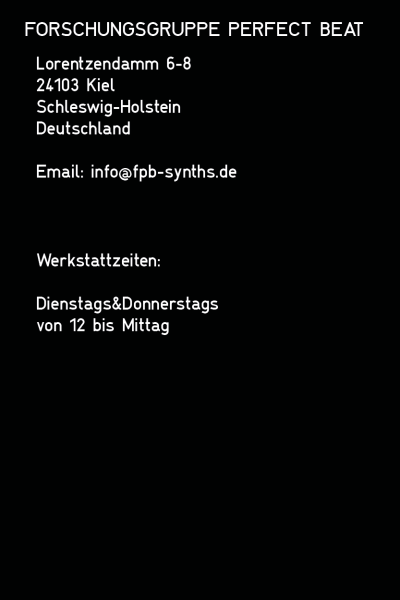
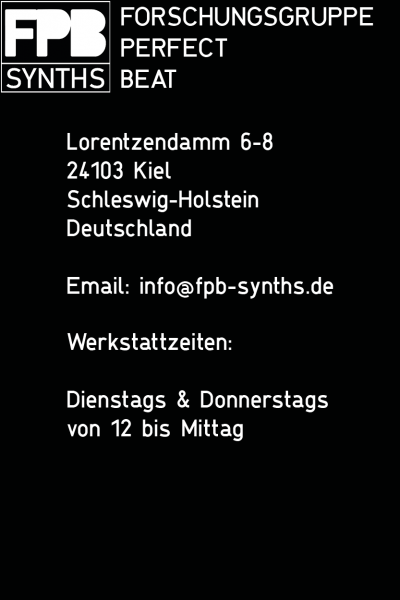
CSS Artikel v1.5

Changed region(s): [[0.0, 0.0, 0.93, 0.6], [0.15, 0.63, 0.84, 0.75], [0.6, 0.21, 0.69, 0.27]]

diff --git a/web/assets/css/style.css b/web/assets/css/style.css
@@ -63,6 +63,17 @@ html
     font:                       16px/1.6 'DIN1451h', helvetica, arial, sans-serif;
 }
 
+body
+{
+    margin:                     auto;
+    background-color:           rgba(0, 0, 0, 1);
+    background-image:           url(../imgs/body-background.png);
+    background-repeat:          no-repeat;
+    background-attachment:      local;
+    background-position:        center;
+    background-size:            cover;
+}
+
 .site
 {
     position:                   relative;
@@ -72,27 +83,6 @@ html
     min-height:                 100vh;
 }
 
-body
-{
-    margin:                     0;
-    min-height:                 100vh;
-}
-
-.body-bg
-{
-    background:                 url(../imgs/body-background.jpg);
-    width:                      100vw;
-    height:                     100vh;
-    position:                   fixed;
-    top:                        0;
-    left:                       0;
-    z-index:                    -1;
-    -webkit-filter:             blur(5px);
-    -moz-filter:                blur(5px);
-    -o-filter:                  blur(5px);
-    -ms-filter:                 blur(5px);
-    filter:                     blur(5px);
-}
 
 /* Inhalt
 * ======================================== */
@@ -101,10 +91,9 @@ body
 {
     display:                    flex;
     flex-direction:             column;
-    background-color:           rgba(0, 0, 0, 0);
 }
 
-/* Überschriften, Text und Listen
+/* Überschriften, Teaser, Text und Artikel Body
  * ======================================== */
 
 /* Section */
@@ -179,7 +168,7 @@ body
     }
 }
 
-/* Artikel für Übersichtsseiten
+/* Artikel Klasse für Übersichtsseiten
 * ======================================== */
 
 .artikel_1
@@ -261,7 +250,7 @@ body
     }
 }
 
-/* Artikel für Einzelseiten (Impressum, Datenschutz, Kontakt, Links)
+/* Artikel Klasse für Einzelseiten (About, Impressum, Datenschutz, Kontakt, Links)
 * ======================================== */
 
 .artikel_2
@@ -273,12 +262,32 @@ body
     padding:                    1rem;
     background-color:           rgba(0, 0, 0, 1);
     color:                      #ffffff;
+    hyphens:                    auto;
+    -webkit-hyphens: auto;
 }
 
 .artikel_2 a
 {
     text-decoration:            none;
     color:                      inherit;
+}
+
+.artikel_2 .abody
+{
+    display:                    block;
+    width:                      100%;
+    margin:                     0;
+    padding-left:               1rem;
+}
+
+@media all and (max-width: 770px)
+{
+    .artikel_2 .abody
+    {
+        display:                block;
+        width:                  100%;
+        padding:                0;
+    }
 }
 
 /* Kontakt Seite */
